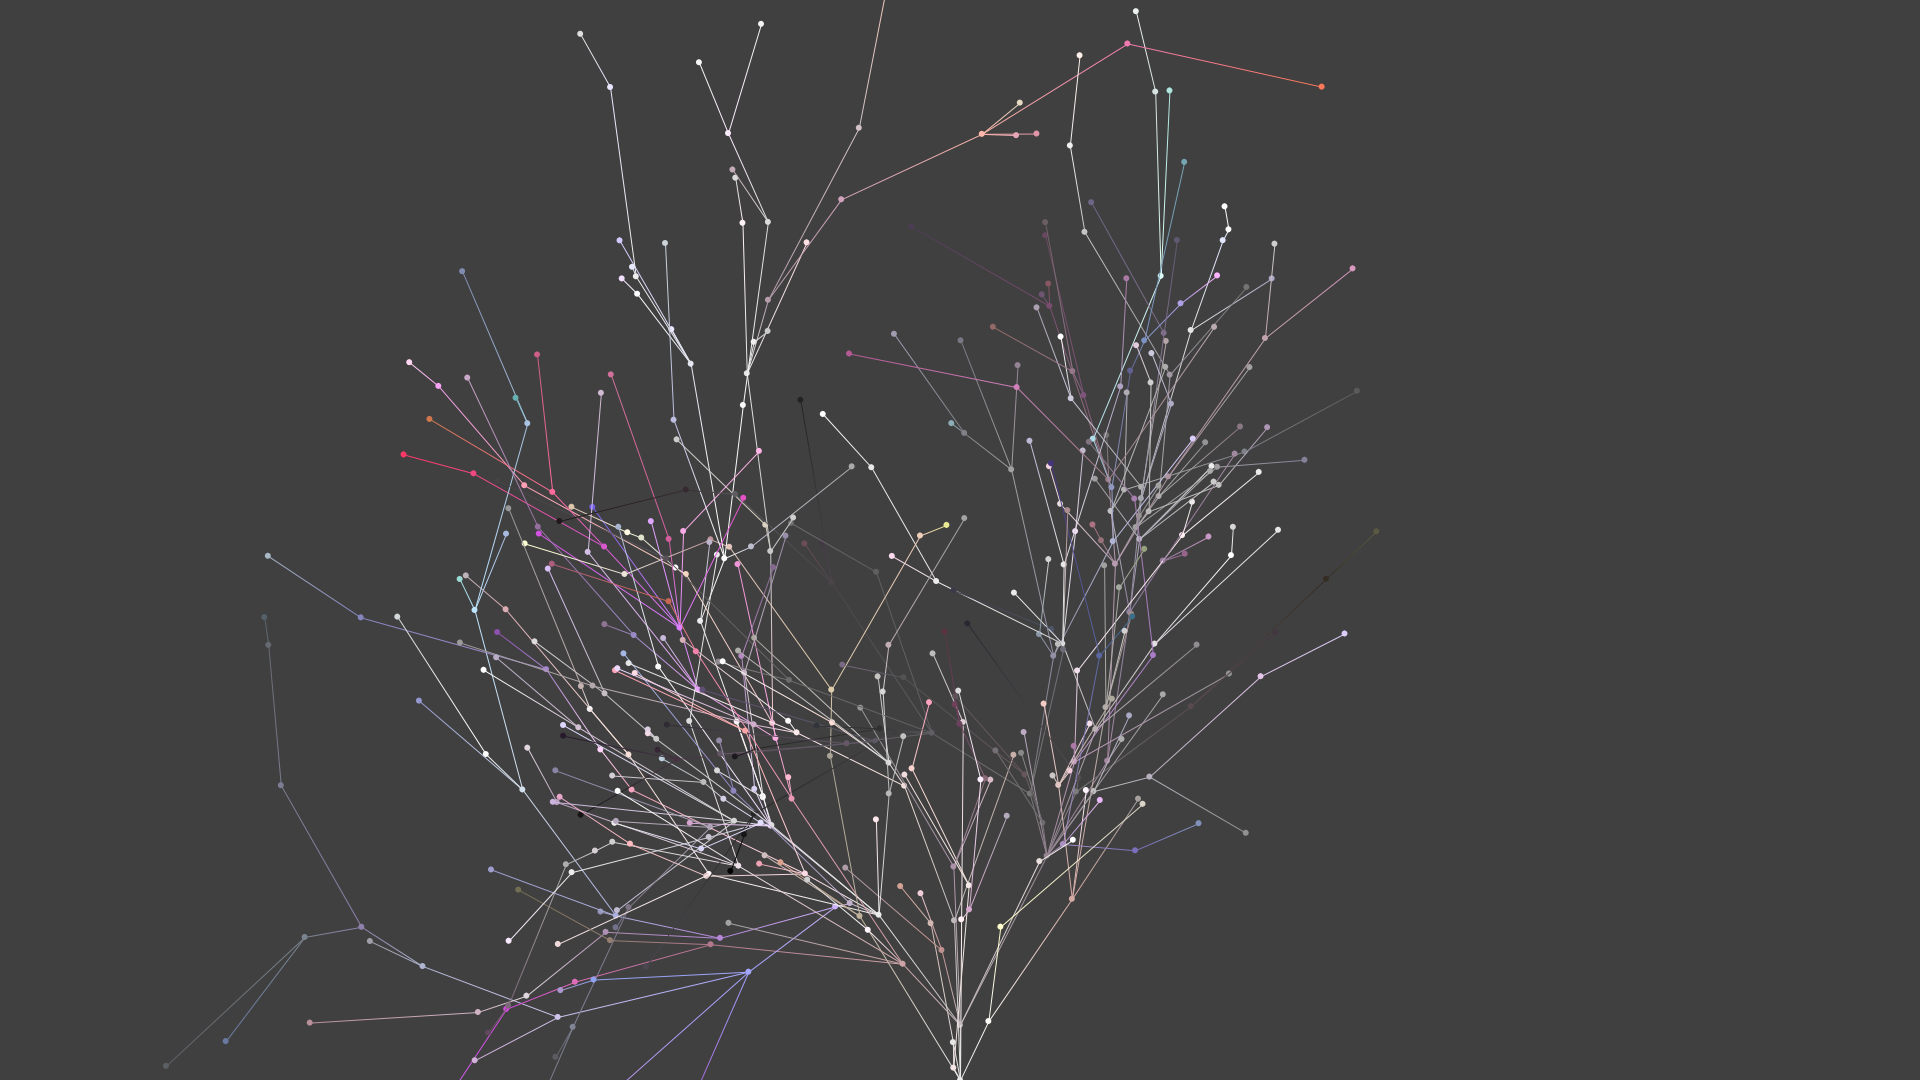
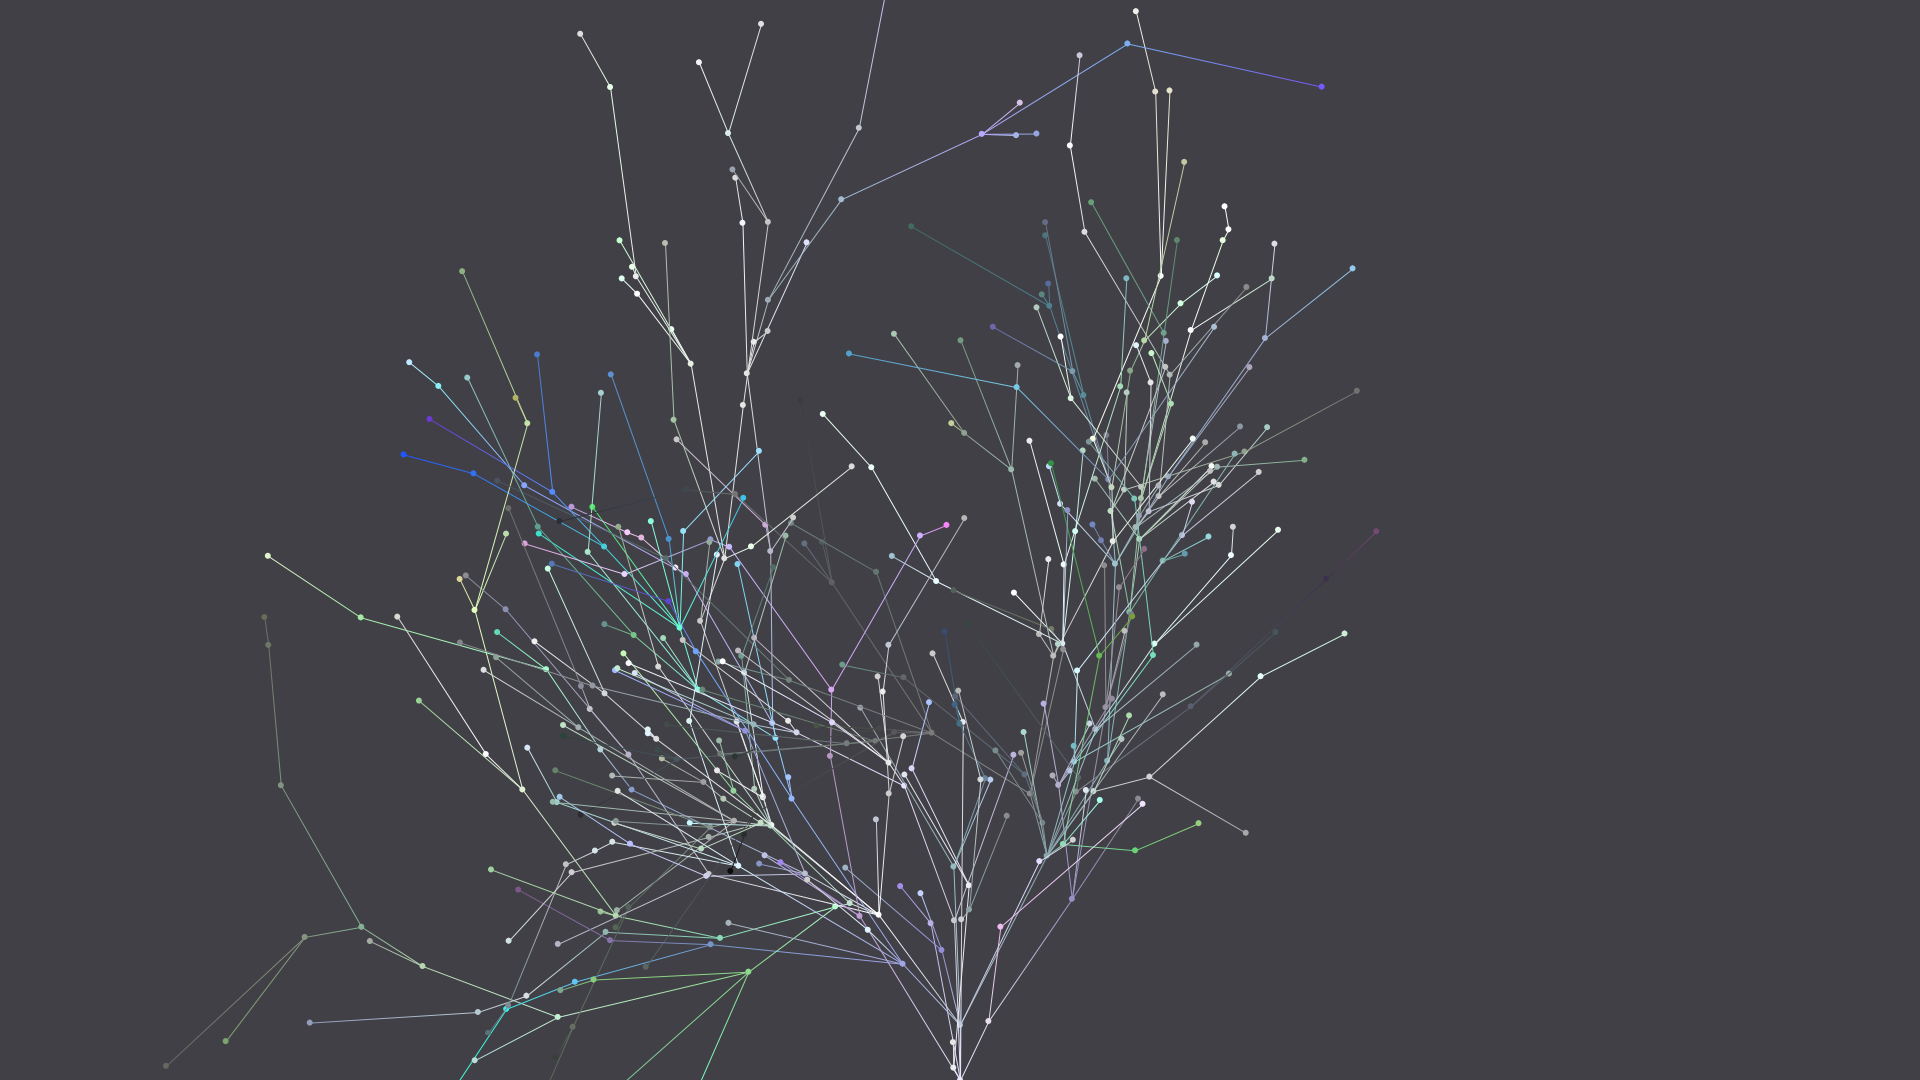
Use updated colours for example images

diff --git a/README.md b/README.md
@@ -6,15 +6,15 @@ For example, the default tree that represents the text "Arbortrary":<br>
 ![Example: default tree for the text "Arbortrary"](Resources/example-1_default.png "Example: default tree for the text \"Arbortrary\"")
 
 Specifying colours will determine initial colour values while the tree structure remains the same:<br>
-`Wacton.Arbortrary.exe --text "Arbortrary" --background-colour "#404040" --first-node-colour "#E8E8E8"`
+`Wacton.Arbortrary.exe --text "Arbortrary" --background-colour "#404046" --first-node-colour "#E8E8FF"`
 ![Example: tree for the text "Arbortrary" with custom initial colours](Resources/example-2_initial-colours.png "Example: tree for the text \"Arbortrary\" with custom initial colours")
 
 Other parameters include the number of nodes to generate:<br>
-`Wacton.Arbortrary.exe --text "Arbortrary" --background-colour "#404040" --first-node-colour "#E8E8E8" --nodes 500`
+`Wacton.Arbortrary.exe --text "Arbortrary" --background-colour "#404046" --first-node-colour "#E8E8FF" --nodes 500`
 ![Example: tree for the text "Arbortrary" with custom initial colours and more nodes](Resources/example-3_initial-colours-more-nodes.png "Example: tree for the text \"Arbortrary\" with custom initial colours and more nodes")
 
 Gif can also be generated:<br>
-`Wacton.Arbortrary.exe --text "Arbortrary" --gif --background-colour "#E8E8E8" --first-node-colour "#404040" --width 960 --height 540 --zoom 0.5`
+`Wacton.Arbortrary.exe --text "Arbortrary" --gif --background-colour "#E8E8FF" --first-node-colour "#404046" --width 960 --height 540 --zoom 0.5`
 ![Example: tree for the text "Arbortrary" as a gif with custom initial colours and scaled down](Resources/example-4_initial-colours-scaled.gif "Example: tree for the text \"Arbortrary\" as a gif with custom initial colours and scaled down")
 
 ## Attributions 🙇
